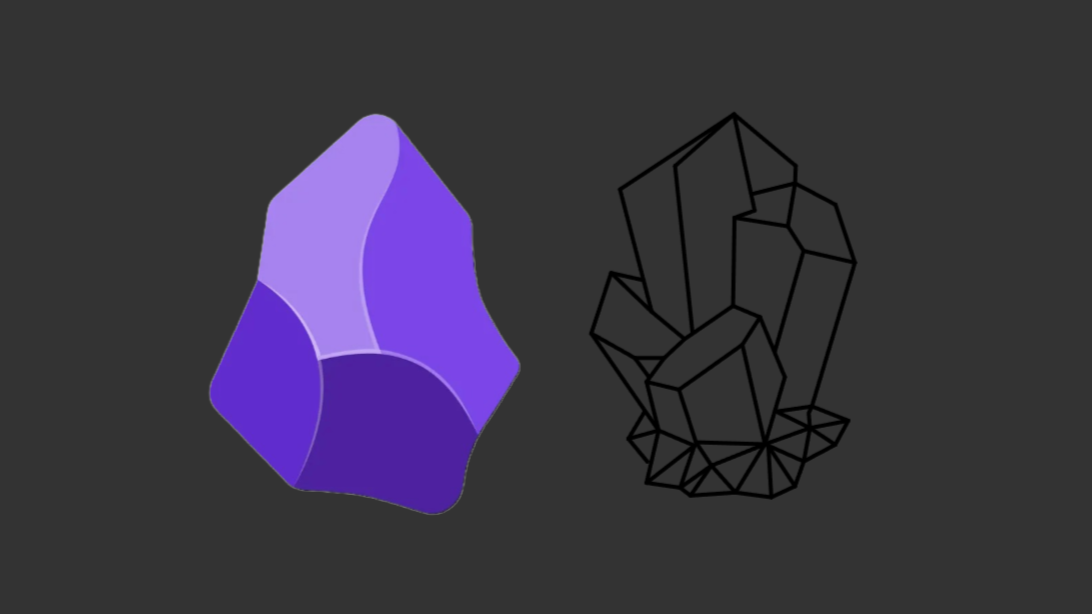
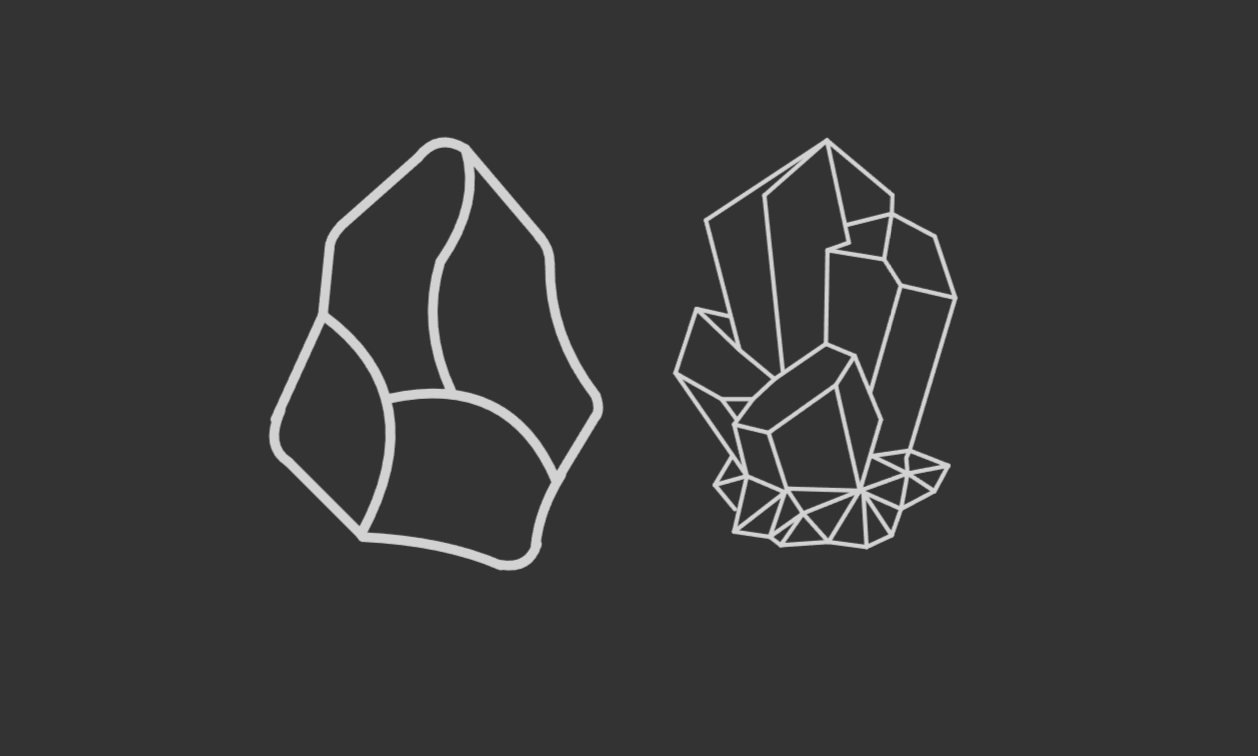
Obsidian Bild angepasst

Changed region(s): [[0.1868, 0.1857, 0.4982, 0.8355], [0.5293, 0.1857, 0.8095, 0.8355]]

diff --git a/index.html b/index.html
@@ -76,12 +76,12 @@
 
     </div>
 
-    <!--
+    
     <footer>
         <p>This is my private Website just for fun.</p>
         <p>Its hosted by <a href="github.com/fshrmnsfrnd/fshrmnsfrnd.github.io">GitHub Pages</a></p>
     </footer>
--->
+    
     <script>console.log("If you can read this, fix the problem by yourself!");</script>
 </body>
 </html>
